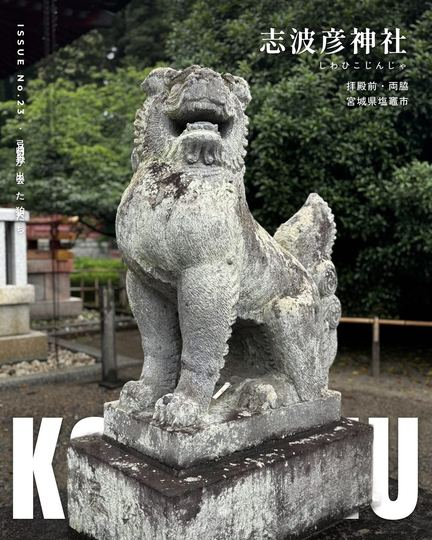
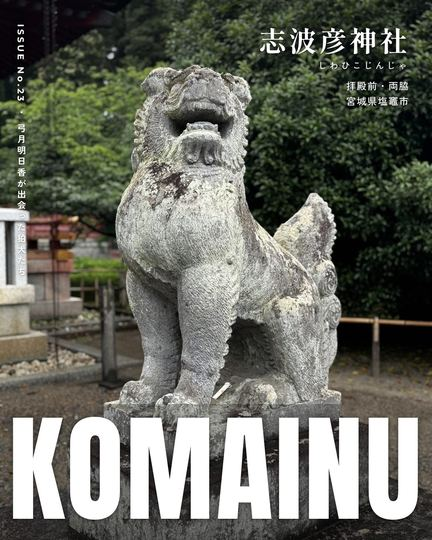
図鑑：志波彦神社の表紙の誌名を台座の上に。乃木神社の表紙の縦書きの重なりを直す（komainu-v54）
Claude-Session: https://claude.ai/code/session_01TBFoRxibf2evV9HUJqSJfP

Changed region(s): [[0.1505, 0.7407, 0.9028, 1.0], [0.0301, 0.0593, 0.0602, 0.5037]]

diff --git a/zukan/app.js b/zukan/app.js
@@ -521,7 +521,7 @@
 
   // 雑誌の表紙のような1枚。build/cover2/make4.py が作った画像(Instagram の1枚目と同じもの)をそのまま出す。
   // 狛犬を切り抜いて誌名の上に頭が重なる作りのため、画像で持つ。11種類を神社の並び順で回す
-  var COVER_V = '20261107d';
+  var COVER_V = '20261108a';
   // 対ごとの表紙(Instagram の各投稿の1枚目)。一覧には小さい版(images/covers/s/)を使う
   function coverSrc(k, sm) { return 'images/covers/' + (sm ? 's/' : '') + encodeURIComponent(k.id) + '.jpg?v=' + COVER_V; }
   function coverImg(k, alt, lazy) {

diff --git a/zukan/sw.js b/zukan/sw.js
@@ -1,7 +1,7 @@
 /* 狛犬図鑑 service worker
    アプリ本体は先に保存。data/ は新しいものを優先（通信できないときは保存分）。
    写真と地図タイルは見たものから保存する。データを差し替えたら CACHE の番号を上げる。 */
-var CACHE = 'komainu-v53';
+var CACHE = 'komainu-v54';
 var CORE = [
   './', 'index.html', 'style.css', 'app.js', 'maplibre-gl.css', 'manifest.webmanifest',
   'data/site.json', 'data/taxonomy.json', 'data/shrines.json',
